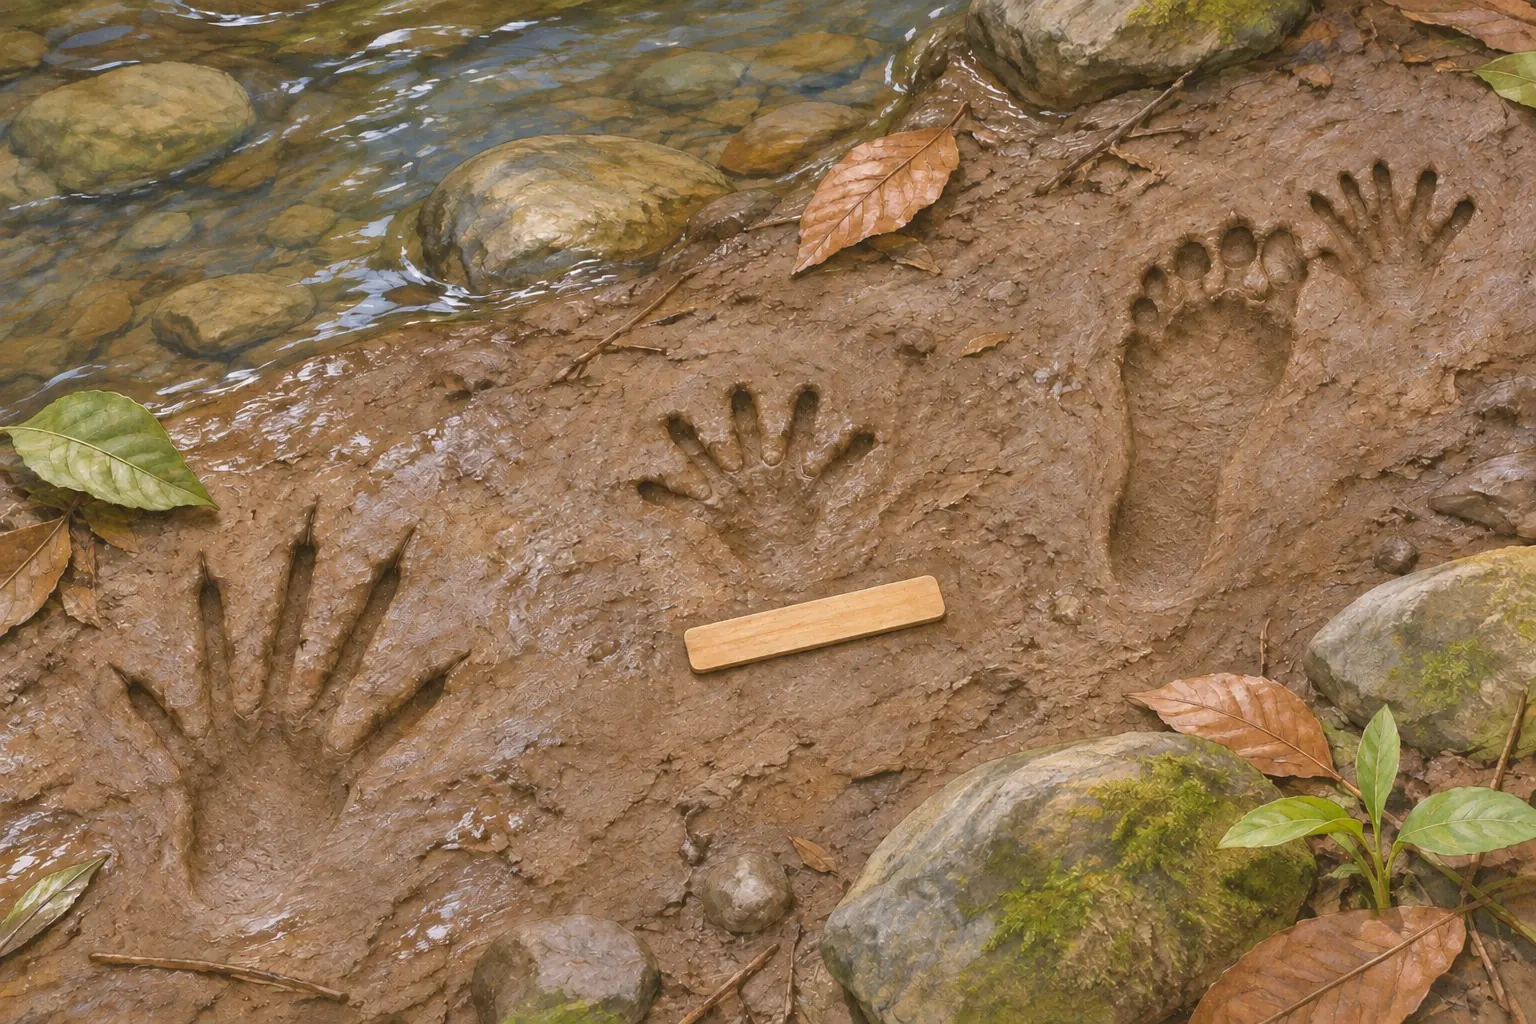
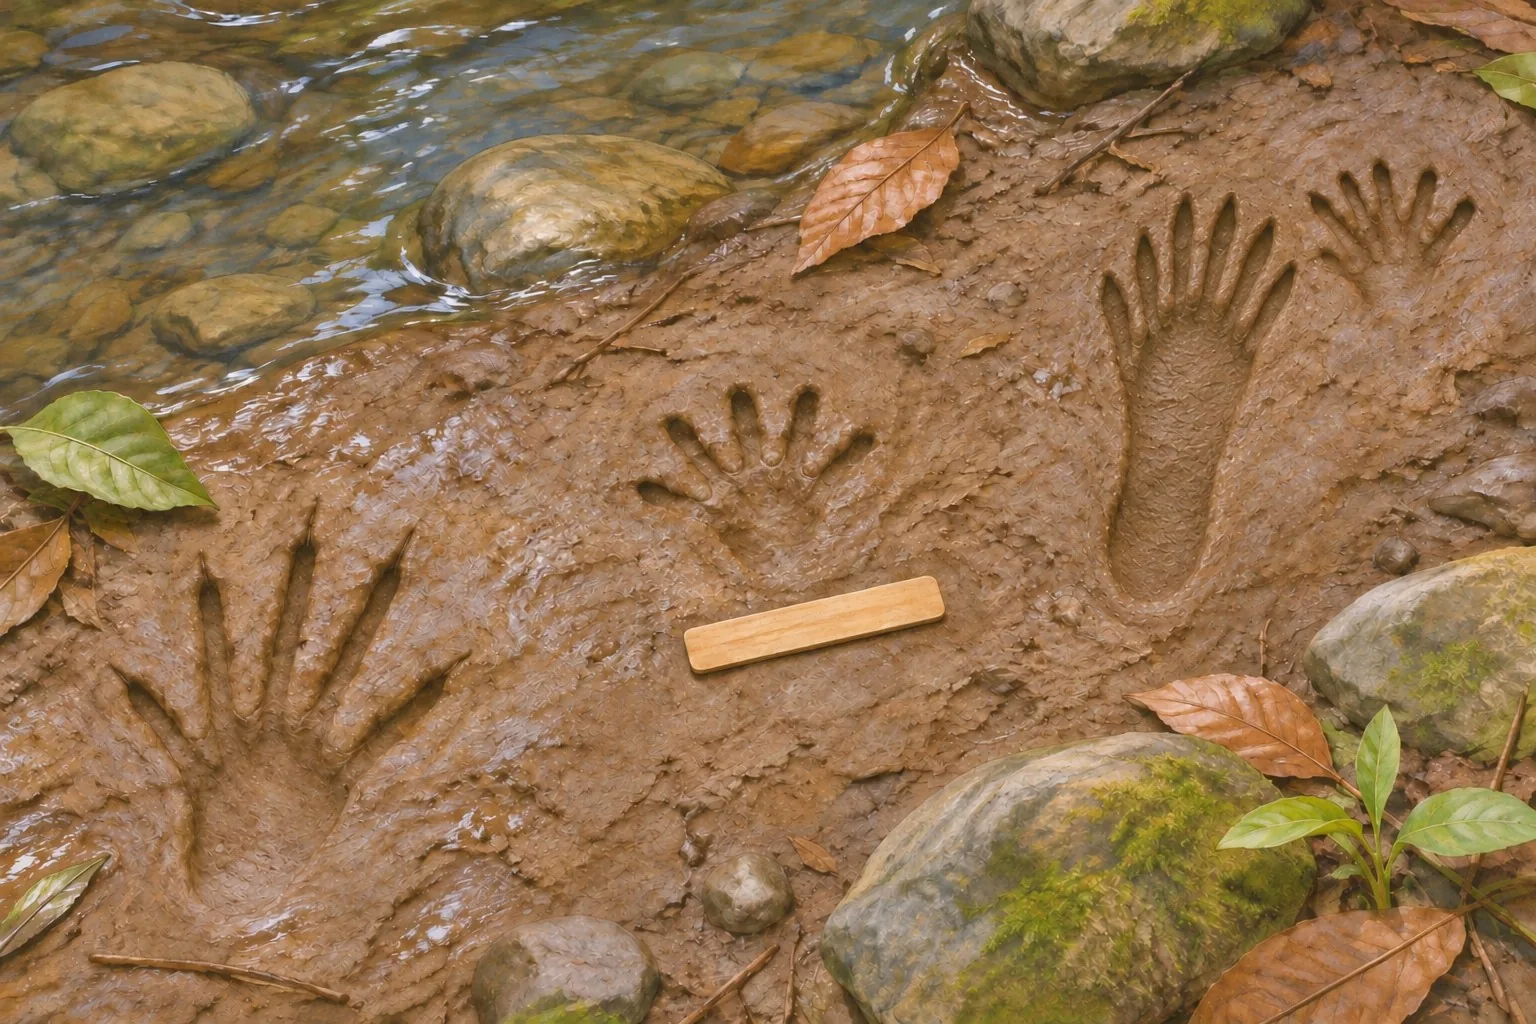
Detective: escena 35 regenerada (huella trasera alargada con cinco dedos largos y delgados), zonas remedidas y verificadas, activa en su misma posicion al final de la lista; textos y versiones ?v= (local, sin publicar)

diff --git a/tests/club-retos.test.js b/tests/club-retos.test.js
@@ -22,7 +22,7 @@ const MX = (iso) => Date.parse(iso);   // las fechas de prueba se dan en UTC
 
 /* ───────── contenido ───────── */
 
-test('cantidades de contenido: al menos 15 de cada tipo (hoy 67 quiz / 59 orden / 55 flashcards / 80 detective, 79 activas / 6x4 historia)', () => {
+test('cantidades de contenido: al menos 15 de cada tipo (hoy 67 quiz / 59 orden / 55 flashcards / 80 detective / 6x4 historia)', () => {
   assert.equal(D.quiz.length, 67);
   assert.equal(D.orden.length, 59);
   assert.equal(D.flashcards.length, 55);
@@ -115,7 +115,7 @@ test('historia: mundos con nombre, descripción, fondo y color', () => {
     ['historia-selva.jpg', 'historia-humedal.jpg', 'historia-arrecife.jpg', 'historia-desierto.jpg', 'historia-bosque-niebla.jpg', 'historia-centro-rescate.jpg']);
 });
 
-test('detective: 79 escenas jugables (de 80), todas con imagen webp definida Y respaldo de texto (escena y 6 pistas), 3 riesgos; las inactivas no se juegan ni cuentan', () => {
+test('detective: 80 escenas jugables, todas con imagen webp definida Y respaldo de texto (escena y 6 pistas), 3 riesgos; una escena inactiva no se juega ni cuenta', () => {
   D.detective.forEach(e => {
     assert.match(e.imagen, /^assets\/img\/retos\/detective-[a-z0-9-]+\.webp$/);
     assert.equal(e.riesgos.length, 3);
@@ -131,12 +131,11 @@ test('detective: 79 escenas jugables (de 80), todas con imagen webp definida Y r
     assert.equal(e.pistas.filter(x => x.ok).length, 3);
     assert.deepEqual(e.pistas.filter(x => x.ok).map(x => x.why), e.riesgos);
   });
-  assert.equal(R.escenasActivas(D.detective).length, 79);
-  // La única inactiva: la imagen de las huellas de mapache (el pie trasero parece un pie humano). Va AL FINAL para que activarla después no mueva las posiciones guardadas.
-  assert.equal(R.escenasPendientes(D.detective), 1);
-  assert.deepEqual(D.detective.filter(e => !e.activo).map(e => e.id), ['campo-nuevo-huellas-mapache']);
-  assert.equal(D.detective[D.detective.length - 1].activo, false, 'la inactiva va al final');
-  assert.equal(D.detective.slice(0, 79).every(e => e.activo === true), true, 'las 79 primeras son las jugables y no se mueven');
+  assert.equal(R.escenasActivas(D.detective).length, 80);
+  assert.equal(R.escenasPendientes(D.detective), 0);
+  // Las huellas de mapache (35) se regeneraron y se activaron; siguen AL FINAL de la lista, así que las posiciones guardadas de las demás no se movieron.
+  assert.equal(D.detective[D.detective.length - 1].id, 'campo-nuevo-huellas-mapache');
+  assert.equal(D.detective.every(e => e.activo === true), true);
   // los 17 nombres de imagen adicionales siguen assets/img/retos/detective-<tema>-<n>.webp
   assert.equal(D.detective.filter(e => /-\d\.webp$/.test(e.imagen)).length, 17);
 });

diff --git a/assets/js/club-retos-datos.js b/assets/js/club-retos-datos.js
@@ -10,8 +10,8 @@
 /*   detective   80 escenas (13 originales, 17 adicionales de          */
 /*               identificación, legal y bienestar, 30 de              */
 /*               seguridad, bioseguridad y conservación y 20 en estilo */
-/*               de ilustración editorial; las que tienen activo:false */
-/*               no cuentan ni se juegan hasta regenerar su imagen)    */
+/*               de ilustración editorial; las que tengan activo:false */
+/*               no cuentan ni se juegan hasta tener su imagen)        */
 /*                                                                */
 /* Forma de cada escena del detective:                            */
 /*   { id, titulo, imagen, zonas: [], activo: true,               */
@@ -434,7 +434,7 @@
       ] }
   ];
 
-  /* ───────────── Detective de campo: 80 escenas (79 activas) ───────────── */
+  /* ───────────── Detective de campo: 80 escenas ───────────── */
   // Cada escena trae su consigna, la descripción de la imagen (`escena`, respaldo si la imagen
   // no existe) y 6 pistas: 3 con ok:true (los hallazgos) y 3 con ok:false (cosas que se ven en la
   // escena pero están bien hechas, o afirmaciones que no se sostienen).
@@ -2314,8 +2314,8 @@
       "id": "campo-nuevo-huellas-mapache",
       "titulo": "Huellas junto al arroyo",
       "imagen": "assets/img/retos/detective-nuevo-35-huellas-mapache.webp",
-      "zonas": [{"x": 0.18, "y": 0.7, "w": 0.26, "h": 0.4}, {"x": 0.5, "y": 0.46, "w": 0.2, "h": 0.2}, {"x": 0.79, "y": 0.4, "w": 0.18, "h": 0.5}],
-      "activo": false,
+      "zonas": [{"x": 0.19, "y": 0.69, "w": 0.26, "h": 0.4}, {"x": 0.5, "y": 0.455, "w": 0.2, "h": 0.2}, {"x": 0.78, "y": 0.4, "w": 0.18, "h": 0.46}],
+      "activo": true,
       "tipo": "identificacion",
       "consigna": "Observa las huellas en el lodo y marca los 3 rasgos que indican que son de un mapache.",
       "escena": "En el lodo de la orilla de un arroyo se ve una línea de huellas de un mamífero. Cada huella tiene cinco dedos largos y delgados; las delanteras se parecen a una mano pequeña, con los dedos abiertos en abanico. Las huellas traseras son más largas y muestran la planta del pie completa, con el talón apoyado. Junto a una huella hay una regla como referencia de tamaño.",

diff --git a/assets/js/club-retos.js b/assets/js/club-retos.js
@@ -40,7 +40,7 @@
   const TIPOS = [
     { id: 'quiz', titulo: 'Quiz relámpago', desc: 'Preguntas cortas de tres opciones sobre manejo, bioseguridad y legislación. Cada reto se abre al superar el anterior.',
       icono: 'zap', color: '#C75402', texto: 'var(--rz-naranja-txt)', tiempo: 'Un minuto por reto', imagen: 'assets/img/landing/area-manejo.webp', camino: true },
-    { id: 'detective', titulo: 'Detective de campo', desc: 'Explora 79 escenas de fauna de México y toca la imagen para descubrir tres hallazgos.',
+    { id: 'detective', titulo: 'Detective de campo', desc: 'Explora 80 escenas de fauna de México y toca la imagen para descubrir tres hallazgos.',
       icono: 'search', color: '#037BC9', texto: 'var(--rz-azul-txt)', tiempo: 'Tres minutos por escena', imagen: 'assets/img/landing/area-monitoreo.webp', camino: true },
     { id: 'orden', titulo: 'Ordena el procedimiento', desc: 'Coloca cada paso en el orden correcto y refuerza los protocolos de campo.',
       icono: 'list-checks', color: '#95A303', texto: 'var(--rz-verde-txt)', tiempo: 'Dos minutos por reto', imagen: 'assets/img/landing/area-conservacion.webp', camino: true },

diff --git a/tests/club-materiales-escalera.test.js b/tests/club-materiales-escalera.test.js
@@ -105,7 +105,7 @@ test('la pantalla usa el orden y el filtro en libros, materiales y PDFs de Drive
 
 test('la escalera del catálogo es alcanzable con los retos que existen hoy en el sitio (con holgura)', () => {
   const total = D.quiz.length + D.orden.length + R.escenasActivas(D.detective).length;
-  assert.equal(total, 205, 'retos distintos del camino: 67 quiz + 79 detective (Detective visual) + 59 ordena');
+  assert.equal(total, 206, 'retos distintos del camino: 67 quiz + 80 detective (Detective visual) + 59 ordena');
   const rutaCatalogo = path.join(RAIZ, '..', 'zoorigen-webhook', 'data', 'materiales', 'catalogo.json');
   if (!fs.existsSync(rutaCatalogo)) return;   // el servidor vive en otra carpeta: si no está, solo se comprueba el total
   const umbrales = JSON.parse(fs.readFileSync(rutaCatalogo, 'utf8')).filter(m => m.acceso === 'retos').map(m => m.requiereRetos);

diff --git a/pages/club-retos.html b/pages/club-retos.html
@@ -67,8 +67,8 @@
   <script src="../assets/js/club-cupon.js?v=20261210-cupon"></script>
   <script src="../assets/js/admin-iconos.js?v=20261207-integrado"></script>
   <script src="../assets/js/club-calendario.js?v=20261119-uncambio"></script>
-  <script src="../assets/js/club-retos-datos.js?v=20261121-imagenes"></script>
-  <script src="../assets/js/club-retos.js?v=20261121-imagenes"></script>
+  <script src="../assets/js/club-retos-datos.js?v=20261122-escena35"></script>
+  <script src="../assets/js/club-retos.js?v=20261122-escena35"></script>
   <script>
     (async () => {
       const session = await ZOORIGEN_CLUB.requireAuth();
